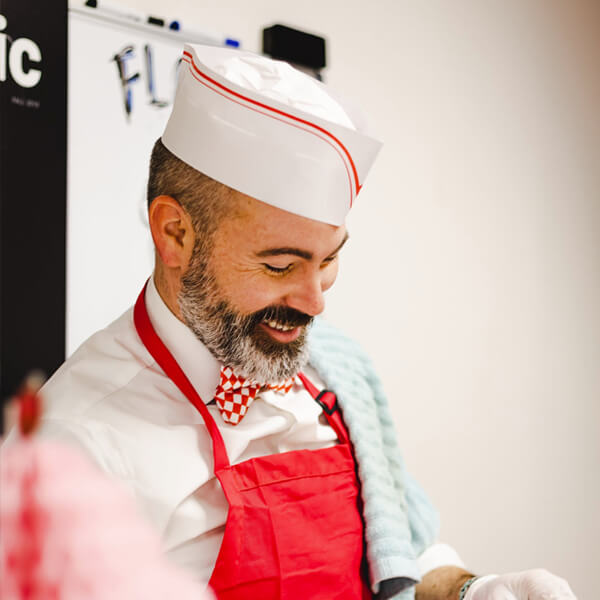
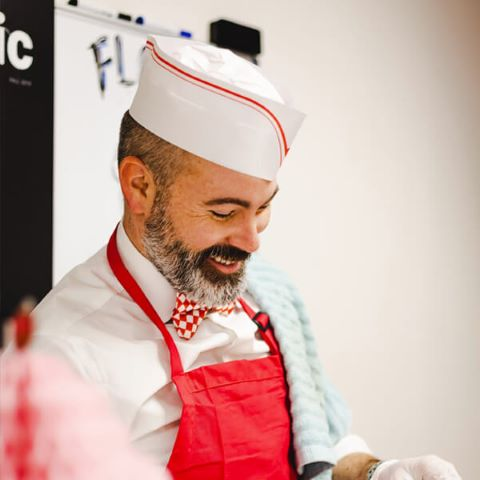
basta

diff --git a/Delicious/index.html b/Delicious/index.html
@@ -548,7 +548,7 @@
 
       <!-- Section Title -->
       <div class="container section-title" data-aos="fade-up">
-        <h2>Chefs</h2>
+        <h2>Teams</h2>
         <div><span>Our</span> <span class="description-title">Teams</span></div>
       </div><!-- End Section Title -->
 
@@ -605,7 +605,7 @@
 
           <div class="col-lg-3 col-md-5" data-aos="fade-up" data-aos-delay="150">
             <div class="member">
-              <div class="pic"><img src="assets/img/chefs/macaranas.webp" class="img-fluid" alt=""></div>
+              <div class="pic"><img src="assets/img/chefs/macaranas.png" class="img-fluid" alt=""></div>
               <div class="member-info">
                 <h4>Christian Macaranas</h4>
                 <span>Cook</span>

diff --git a/Delicious/assets/css/main.css b/Delicious/assets/css/main.css
@@ -1377,6 +1377,10 @@ section,
 .chefs .member .pic {
   overflow: hidden;
   margin-bottom: 50px;
+    width: 200px; /* Ensures the image takes up the full width of its container */
+    height: 250px; /* Set a fixed height for the images */
+    object-fit: cover; /* Ensures the image covers the container while maintaining aspect ratio */
+  
 }
 
 .chefs .member .member-info {
